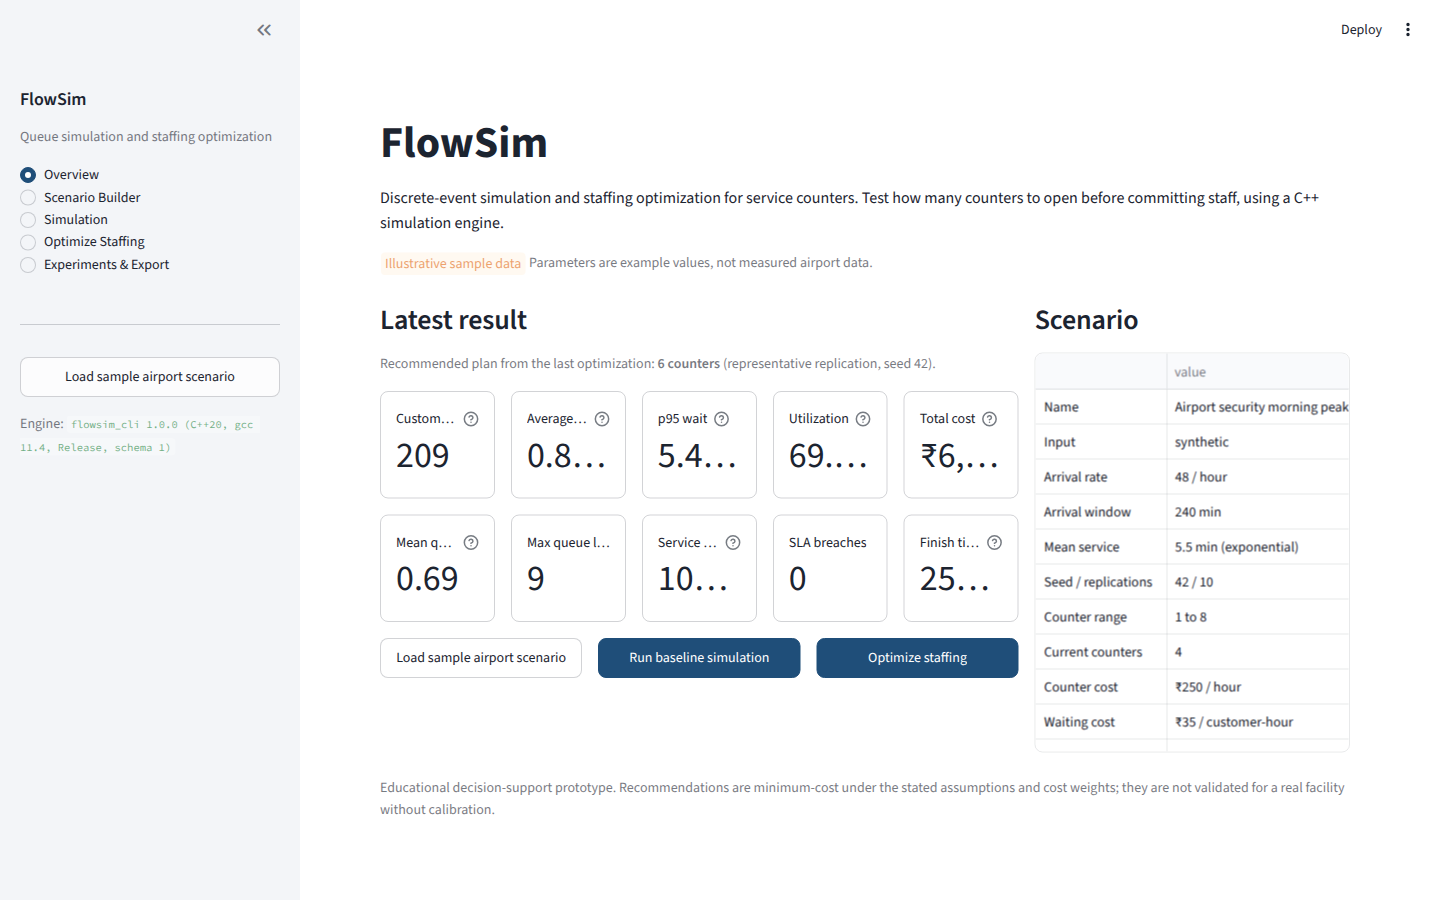
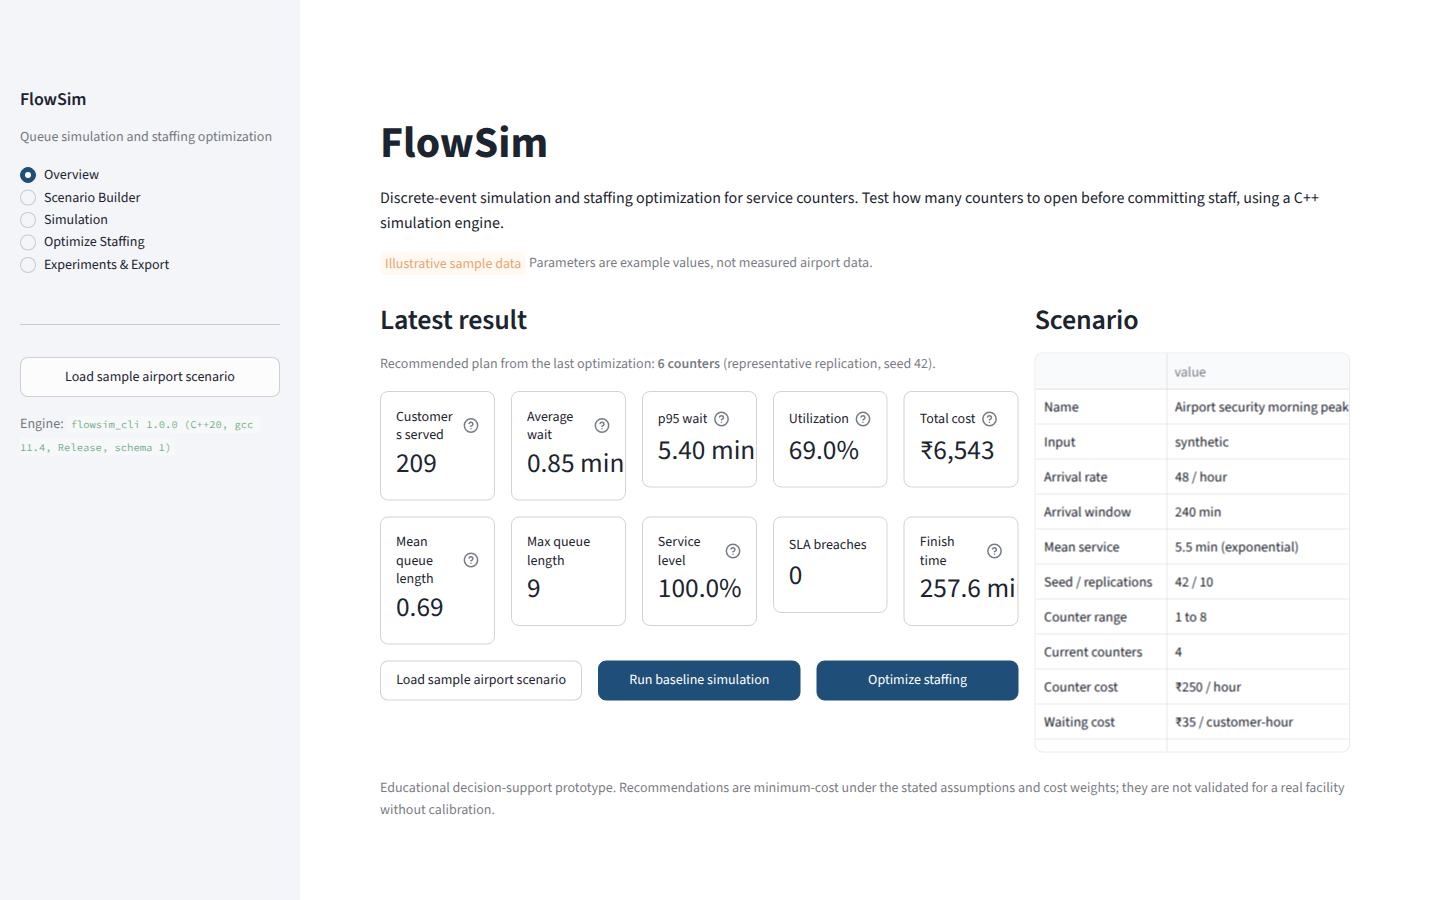
Show Overview KPIs full width so values stay readable on narrow screens

diff --git a/ui/app.py b/ui/app.py
@@ -111,46 +111,43 @@ def page_overview() -> None:
                 "Test how many counters to open before committing staff, using a C++ simulation engine.")
     illustrative_badge()
     s = st.session_state.scenario
-    left, right = st.columns([2, 1])
-    with left:
-        st.subheader("Latest result")
-        opt, sim = st.session_state.opt_result, st.session_state.sim_result
-        if opt:
-            st.caption(f"Recommended plan from the last optimization: **{opt['best_counter_count']} counters** "
-                       f"(representative replication, seed {opt['scenario'].get('seed', 'fixed CSV')}).")
-            ui.kpi_row(opt["recommended_simulation"]["metrics"])
-        elif sim:
-            st.caption(f"Last simulation: **{sim['counter_count']} counters**.")
-            ui.kpi_row(sim["metrics"])
-        else:
-            st.info("No runs yet. Load the sample scenario, then run a simulation or optimize staffing.")
-        b1, b2, b3 = st.columns(3)
-        if b1.button("Load sample airport scenario", width="stretch"):
-            ui.load_sample()
+    st.subheader("Latest result")
+    opt, sim = st.session_state.opt_result, st.session_state.sim_result
+    if opt:
+        st.caption(f"Recommended plan from the last optimization: **{opt['best_counter_count']} counters** "
+                   f"(representative replication, seed {opt['scenario'].get('seed', 'fixed CSV')}).")
+        ui.kpi_row(opt["recommended_simulation"]["metrics"])
+    elif sim:
+        st.caption(f"Last simulation: **{sim['counter_count']} counters**.")
+        ui.kpi_row(sim["metrics"])
+    else:
+        st.info("No runs yet. Load the sample scenario, then run a simulation or optimize staffing.")
+    b1, b2, b3 = st.columns(3)
+    if b1.button("Load sample airport scenario", width="stretch"):
+        ui.load_sample()
+        st.rerun()
+    if b2.button("Run baseline simulation", width="stretch", type="primary"):
+        if run_simulation(int(s.get("current_counters") or s["min_counters"])):
             st.rerun()
-        if b2.button("Run baseline simulation", width="stretch", type="primary"):
-            if run_simulation(int(s.get("current_counters") or s["min_counters"])):
-                st.rerun()
-        if b3.button("Optimize staffing", width="stretch", type="primary", key="overview_opt"):
-            if run_optimization():
-                st.rerun()
-    with right:
-        st.subheader("Scenario")
-        rows = {"Name": s["name"], "Input": s["input_mode"]}
-        if s["input_mode"] == "synthetic":
-            rows.update({"Arrival rate": f"{s['arrival_rate_per_hour']:g} / hour",
-                         "Arrival window": f"{s['arrival_window_minutes']:g} min",
-                         "Mean service": f"{s['mean_service_time_minutes']:g} min ({s['service_time_distribution']})",
-                         "Seed / replications": f"{s['seed']} / {s['replications']}"})
-        else:
-            frame = st.session_state.csv_frame
-            rows["Passengers"] = f"{0 if frame is None else len(frame):,} from {st.session_state.csv_name or 'no file'}"
-        rows.update({"Counter range": f"{s['min_counters']} to {s['max_counters']}",
-                     "Current counters": str(s.get("current_counters") or "not set"),
-                     "Counter cost": f"{ui.money(s['counter_cost_per_hour'])} / hour",
-                     "Waiting cost": f"{ui.money(s['waiting_cost_per_passenger_hour'])} / customer-hour",
-                     "SLA": f"wait <= {s['sla_wait_minutes']:g} min, penalty {ui.money(s['sla_penalty_per_passenger'])}"})
-        st.dataframe(pd.DataFrame(rows.items(), columns=["", "value"]), hide_index=True, width="stretch")
+    if b3.button("Optimize staffing", width="stretch", type="primary", key="overview_opt"):
+        if run_optimization():
+            st.rerun()
+    st.subheader("Scenario")
+    rows = {"Name": s["name"], "Input": s["input_mode"]}
+    if s["input_mode"] == "synthetic":
+        rows.update({"Arrival rate": f"{s['arrival_rate_per_hour']:g} / hour",
+                     "Arrival window": f"{s['arrival_window_minutes']:g} min",
+                     "Mean service": f"{s['mean_service_time_minutes']:g} min ({s['service_time_distribution']})",
+                     "Seed / replications": f"{s['seed']} / {s['replications']}"})
+    else:
+        frame = st.session_state.csv_frame
+        rows["Passengers"] = f"{0 if frame is None else len(frame):,} from {st.session_state.csv_name or 'no file'}"
+    rows.update({"Counter range": f"{s['min_counters']} to {s['max_counters']}",
+                 "Current counters": str(s.get("current_counters") or "not set"),
+                 "Counter cost": f"{ui.money(s['counter_cost_per_hour'])} / hour",
+                 "Waiting cost": f"{ui.money(s['waiting_cost_per_passenger_hour'])} / customer-hour",
+                 "SLA": f"wait <= {s['sla_wait_minutes']:g} min, penalty {ui.money(s['sla_penalty_per_passenger'])}"})
+    st.dataframe(pd.DataFrame(rows.items(), columns=["", "value"]), hide_index=True, width="stretch")
     st.caption("Educational decision-support prototype. Recommendations are minimum-cost under the stated "
                "assumptions and cost weights; they are not validated for a real facility without calibration.")
 

diff --git a/ui/components.py b/ui/components.py
@@ -57,7 +57,7 @@ def inject_css() -> None:
     st.html("""<style>
     [data-testid="stMetricValue"] { font-size: clamp(1.15rem, 1.9vw, 2.1rem); }
     [data-testid="stMetricValue"] > div, [data-testid="stMetricLabel"] p {
-        white-space: normal; overflow: visible; text-overflow: clip; overflow-wrap: anywhere; }
+        white-space: normal; overflow: visible; text-overflow: clip; word-break: normal; }
     </style>""")
 
 
